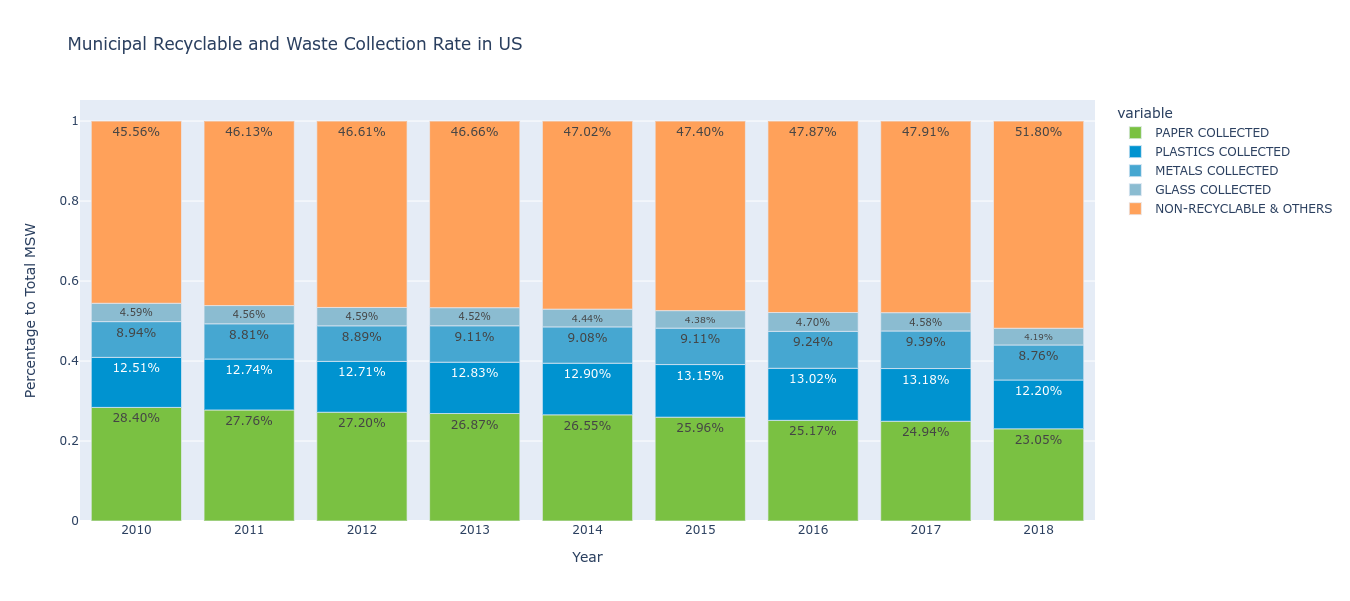
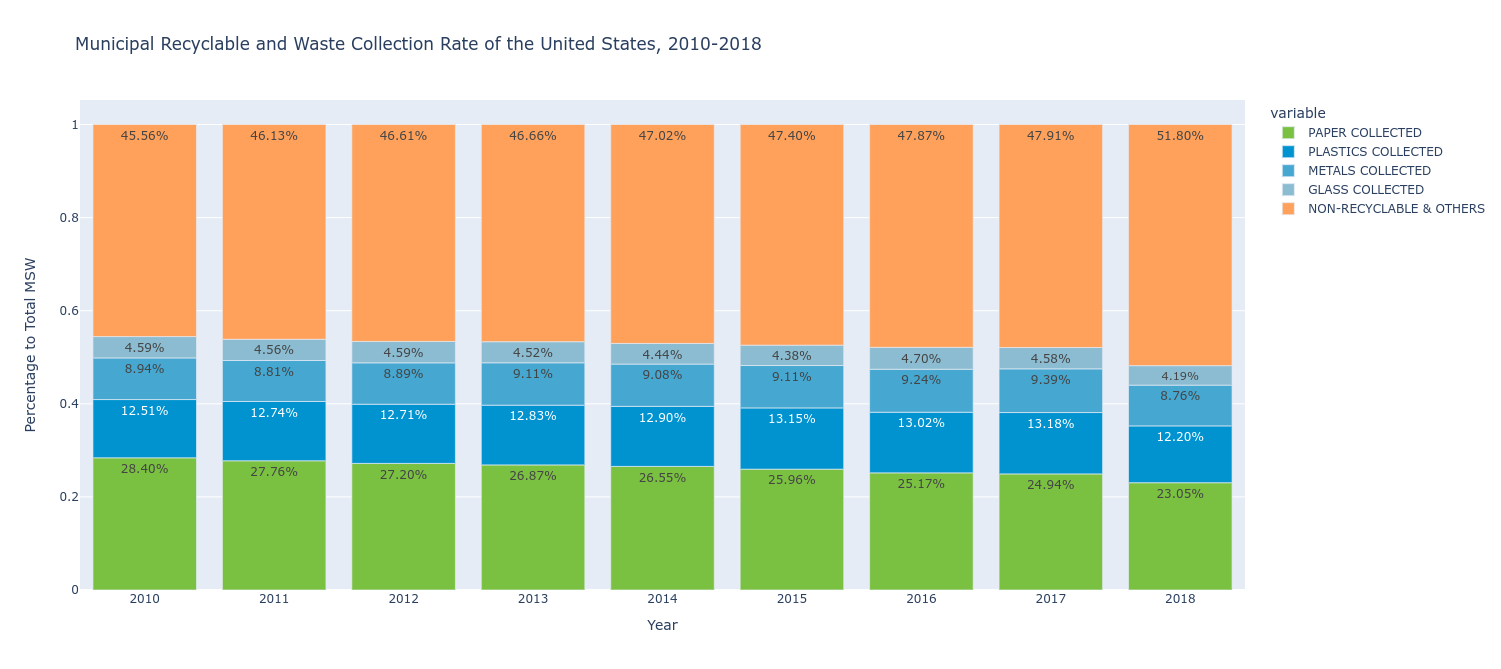
Add files via upload

Changed region(s): [[0.0, 0.1498, 0.9956, 0.8985], [0.0311, 0.0599, 0.4978, 0.0899], [0.4356, 0.9285, 0.4667, 0.9584]]

diff --git a/recycle_stat_NY.py b/recycle_stat_NY.py
@@ -56,7 +56,7 @@ fig = px.bar(NYCmswTotal,
         x = "YEAR", 
         y = ["PAPER COLLECTED", "MGP COLLECTED", "NON-RECYCLABLE & OTHERS"], 
         color_discrete_sequence = ["#42C24A", "#2A9FD1", "#FFB47A"],
-        title = "Municipal Recyclable and Waste Collection Rate in New York City",
+        title = "Municipal Recyclable and Waste Collection Rate of the New York City, 2010-2022",
         labels = {"value" : "Percentage to total waste", "YEAR" : "Year"}, 
         text_auto = ".2%")
 

diff --git a/recycle_stat_US.py b/recycle_stat_US.py
@@ -116,6 +116,6 @@ fig = px.bar(USmswTotal,
         y=USp_cols, 
         labels={"value": "Percentage to Total MSW", "YEAR": "Year"}, 
         color_discrete_sequence = [*USbarcolor.values()],
-        title="Municipal Recyclable and Waste Collection Rate in US",
+        title="Municipal Recyclable and Waste Collection Rate of the United States, 2010-2018",
         text_auto=".2%")
 fig.show()

diff --git a/recycle_stat.py b/recycle_stat.py
@@ -167,7 +167,7 @@ USNY = pd.DataFrame(
 fig = go.Figure()
 
 fig.update_layout(
-    title = "Comparing Municipal Recyclable and Waste Collection Rate of NYC with US",
+    title = "Comparison of Municipal Recyclable and Waste Collection Rate of NYC and US, 2010-2018",
     xaxis = dict(title_text = "Year"),
     yaxis = dict(title_text = "Percentage"),
     barmode = "stack",
